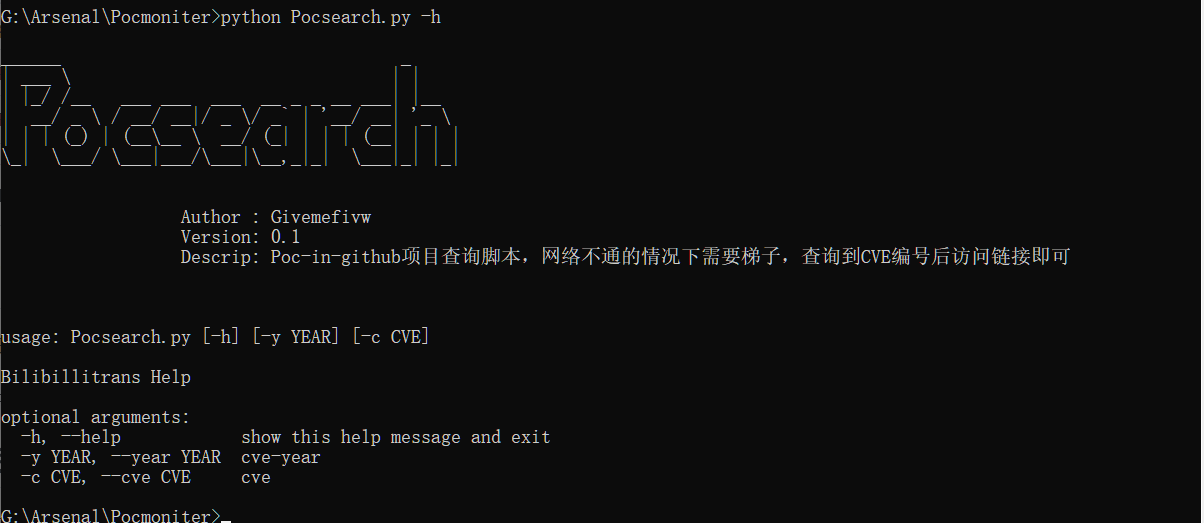
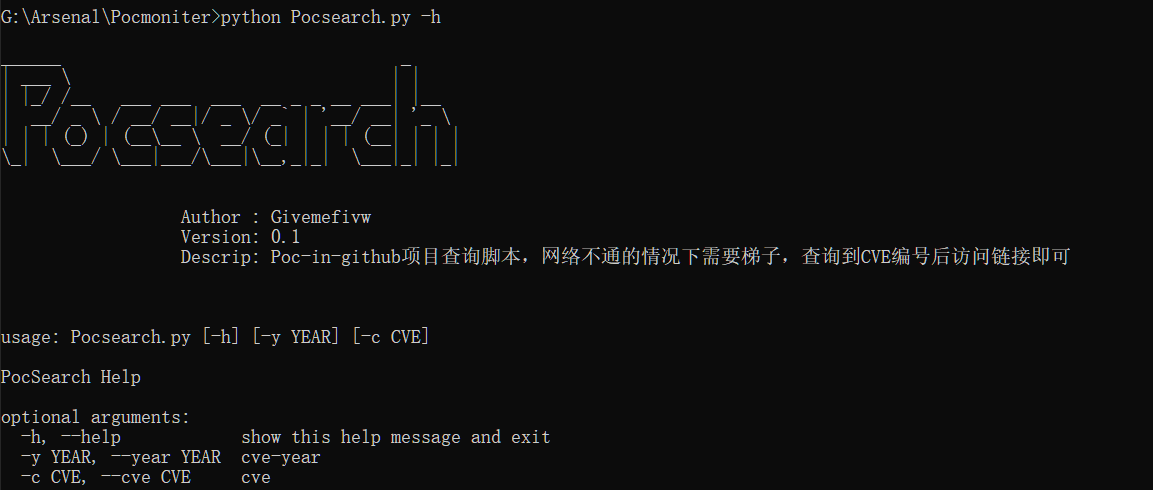
fix wrong

diff --git a/Pocsearch.py b/Pocsearch.py
@@ -37,7 +37,7 @@ def monitor(year,cve):
         sys.exit()
 
 def main():
-    parser = argparse.ArgumentParser(description='Bilibillitrans Help')
+    parser = argparse.ArgumentParser(description='PocSearch Help')
     parser.add_argument('-y','--year',help='cve-year',default='')
     parser.add_argument('-c','--cve',help='cve',default='')
     args = parser.parse_args()
